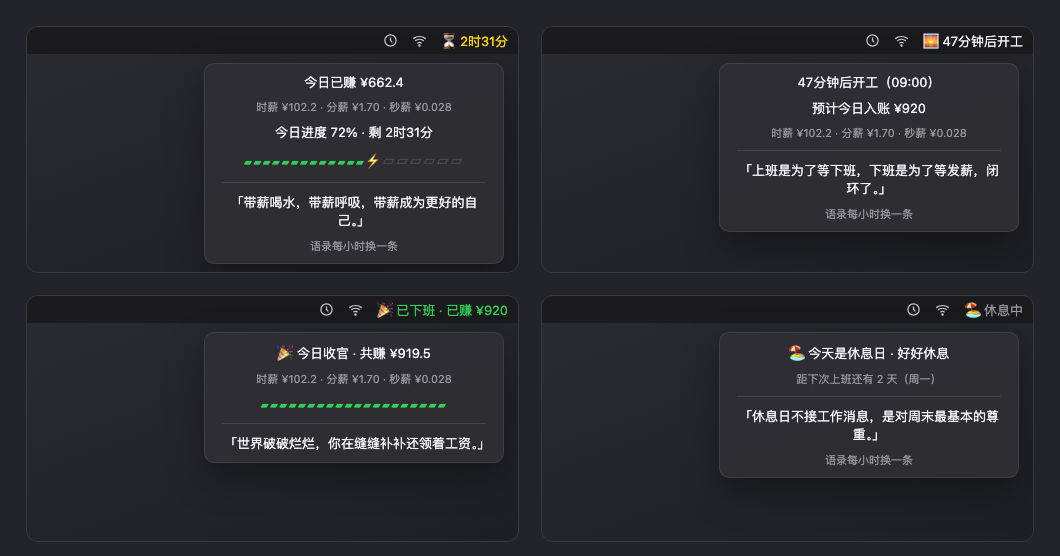
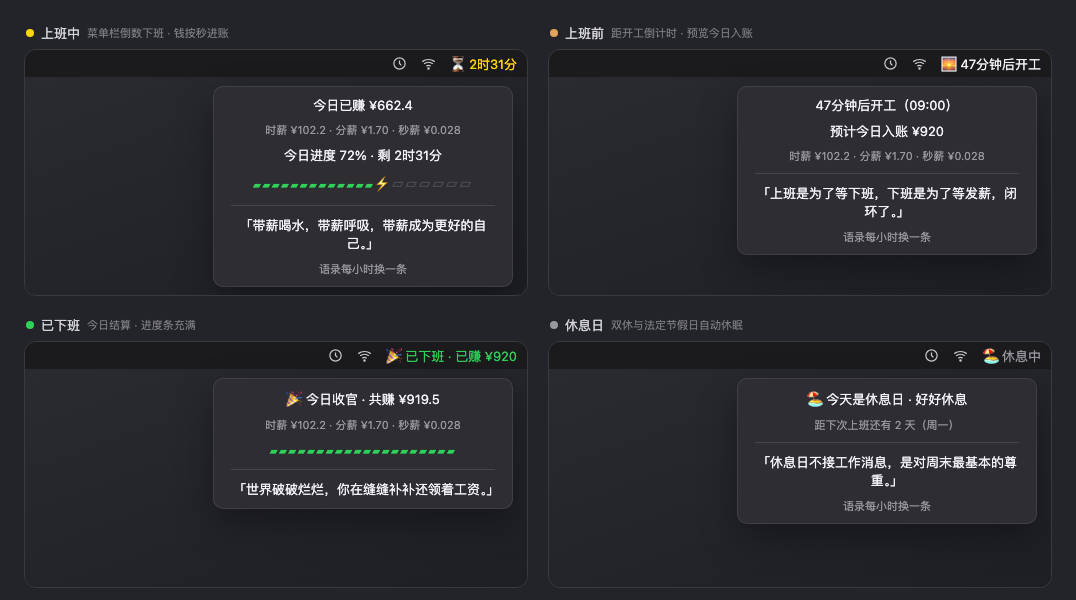
README 重写：产品描述+状态表；新增充电演变图与图注截图；install.sh 一键安装
- README：一句话定位、四状态说明表、三大特色分区、双安装路径、语料自定义/更新卸载
- screenshots/charging.png：一天 6 个时间点的充电进度条演变
- install.sh：SwiftBar 检查+引导配置，重跑即更新且保留配置（沙箱三路径验证，修 C locale 下 $CONFIG 紧贴全角括号的 unbound bug）

diff --git a/README.md b/README.md
@@ -1,55 +1,103 @@
 # niuma-charger · 牛马充电器
 
-[SwiftBar](https://swiftbar.app) 上班鼓励器 —— 菜单栏里的打工人充电面板。工作日自动上线，休息日自动下班。
+> SwiftBar 上班鼓励器 —— 把上班变成一场看得见的充电：菜单栏倒数下班，钱包按秒进账，语录按小时打气。工作日自动营业，休息日自动休眠。
 
-![screenshot](screenshots/demo.png)
+![四种工作状态](screenshots/demo.png)
 
-## 功能
+一段纯 Python 标准库写成的 macOS 菜单栏插件（[SwiftBar](https://swiftbar.app) 插件协议），无任何第三方依赖。装好之后，你的菜单栏会多出一个常驻小组件：
 
-- **四状态感知**：上班前倒计时 / 上班中充电 / 已下班结算 / 休息日休眠
-- **实时工资**：今日已赚按分钟累计，附时薪 / 分薪 / 秒薪（月薪 ÷ 21.75 ÷ 每日工时）
-- **充电进度条**：20 格——绿色已充、黄色 ⚡ 在充电前沿、灰色未充，下班时满格
-- **108 条语料**：打工人自嘲 / 温柔夸夸 / 轻鸡汤混合轮换，每小时换一条，菜单里可手动换
-- **中国节假日感知**：内置 2026 官方放假 + 调休补班表，双休与法定节假日自动切休息模式，调休补班日正常开工并标注
+| 状态 | 菜单栏显示 | 点开下拉可见 |
+|---|---|---|
+| 🌅 上班前 | 距开工倒计时 | 预计今日入账 · 时薪/分薪/秒薪 · 语录 |
+| ⏳ 上班中 | 距下班倒计时（黄色） | 今日已赚按分钟累计 · 赚钱速度 · 充电进度条 · 语录 |
+| 🎉 已下班 | 已下班 · 今日总入账（绿色） | 收官结算 · 满格进度条 · 下个开工日 · 语录 |
+| 🏖 休息日 | 休息中（灰色） | 假期名称 · 距下次上班天数 · 休息专属语录 |
+
+工资口径：时薪 = 月薪 ÷ 21.75 ÷ 每日工时。调休补班的周末照常营业，并在下拉里标注「今天调休补班」。
+
+## 特色：充电进度条
+
+下拉里的 20 格进度条模拟电池充电——**绿色是你已经赚到手的，黄色 ⚡ 停在充电前沿，表示钱正在流入口袋**。从开工到下班，一格一格充满：
+
+![充电进度条](screenshots/charging.png)
+
+下班那一刻整条变绿，充电完成 🎉。
+
+## 特色：108 条语料，每小时换一条
+
+打工人自嘲（「人生很短，周一很长」）、温柔夸夸（「没有迟到，没有崩溃，这很了不起」）、轻鸡汤（「秒薪在走，进度在涨，生活在稳稳向前」）三种风格混合轮换，上班/休息各用专属语料池。下拉里点「🎲 换一条语录」可随时手动换。
+
+## 特色：中国节假日感知
+
+内置国务院 2026 年官方放假 + 调休补班表：双休与法定节假日自动切休息模式（下拉显示假期名称），调休补班日正常开工。表按年登记，官方发布次年通知后追加一段数据即可（见[下文](#节假日表更新)）。
 
 ## 安装
 
+前置：macOS + [SwiftBar](https://swiftbar.app)（终端执行 `brew install --cask swiftbar`，或官网下载）。
+
+### 方式一：一键脚本（推荐）
+
 ```bash
-# 1. 安装 SwiftBar：https://swiftbar.app
-# 2. 放入插件并赋执行权限
+git clone https://github.com/zhangYIBO1993/niuma-charger.git
+cd niuma-charger
+./install.sh
+```
+
+脚本会把插件装进 SwiftBar、引导你写入月薪配置，一分钟内菜单栏出现 `⏳`。已装过再跑一遍 = 更新，配置不会被覆盖。
+
+### 方式二：手动三步
+
+```bash
 cp encourage.1m.py ~/Library/Application\ Support/SwiftBar/Plugins/
 chmod +x ~/Library/Application\ Support/SwiftBar/Plugins/encourage.1m.py
-# 3. 写入配置（月薪必填）
-mkdir -p ~/.config/swiftbar
-cp encourage.json.example ~/.config/swiftbar/encourage.json
-# 编辑填上你的月薪，SwiftBar 一分钟内自动加载
+mkdir -p ~/.config/swiftbar && cp encourage.json.example ~/.config/swiftbar/encourage.json
 ```
+
+然后编辑 `~/.config/swiftbar/encourage.json` 填上月薪。
 
 ## 配置 `~/.config/swiftbar/encourage.json`
 
 | 键 | 默认 | 说明 |
 |---|---|---|
-| `salary` | `0` | 月薪（元）；为 0 时隐藏工资相关行，其余功能照常 |
-| `start` | `09:00` | 上班时间，倒计时起点 |
-| `end` | `18:00` | 下班时间，倒计时终点 |
+| `salary` | `0` | 月薪（元）。为 0 时隐藏工资相关行，其余功能照常——不想暴露收入也能用 |
+| `start` | `09:00` | 上班时间（倒计时起点） |
+| `end` | `18:00` | 下班时间（倒计时终点） |
+
+改完保存即可，下一次刷新（1 分钟内）生效。
+
+## 自定义语料
+
+编辑 `encourage.1m.py` 里的 `QUOTES_WORK`（上班池）和 `QUOTES_REST`（休息池）两个元组，一行一条。唯一要求：不要包含竖线 `|`（SwiftBar 菜单协议保留字符）。改完跑一次校验：
+
+```bash
+python3 encourage.1m.py --selftest
+```
+
+## 更新与卸载
+
+```bash
+cd niuma-charger && git pull && ./install.sh   # 更新（配置保留）
+rm ~/Library/Application\ Support/SwiftBar/Plugins/encourage.1m.py   # 卸载
+rm ~/.config/swiftbar/encourage.json ~/.config/swiftbar/encourage.offset
+```
 
 ## 节假日表更新
 
-每年 10–11 月国务院办公厅发布次年放假安排后，在脚本 `TABLES` 里按年份追加节假日区间与调休补班日即可，无需改逻辑。表外年份自动退化为「周末休 / 平日上」，菜单下拉中会提示待更新。当前数据来源：国办发明电〔2025〕7 号《关于 2026 年部分节假日安排的通知》。
+每年 10–11 月国务院办公厅发布次年放假安排后，在 `encourage.1m.py` 的 `TABLES` 里按年份追加节假日区间与调休补班日，无需改任何逻辑。表外年份自动退化为「周末休 / 平日上」，菜单下拉中会提示待更新。当前数据来源：国办发明电〔2025〕7 号《关于 2026 年部分节假日安排的通知》。
 
-## 开发
+## 开发与自检
 
 ```bash
 python3 encourage.1m.py --selftest  # 离线自检：日历/工资/进度条/语料不变量
-python3 encourage.1m.py             # 手动渲染一次菜单输出
+python3 encourage.1m.py             # 手动渲染一次菜单输出（调试用）
 ```
 
-纯 Python 标准库实现，无第三方依赖，macOS 菜单栏原生渲染（SwiftBar 插件协议 + ANSI 着色）。
+自检覆盖：节假日与调休分类、四个状态的边界时刻、工资数学、进度条各百分比形态、语料池去重与长度约束。
 
 ## 致谢
 
-- 灵感来自「上班鼓励机」类产品（实时工资 + 下班倒计时 + 鼓励语录）
-- 语料风格参考了社媒上流传的打工人文案趋势（改写而非逐字搬运，来源链接见脚本注释）：牛马文案合集、「确诊为马」、小红书「小跨一步，大夸一场」、夸夸 / 反内耗、离线休息权等
+- 灵感来自「上班鼓励机」类产品（实时工资 + 下班倒计时 + 鼓励语录三件套）
+- 语料风格参考社媒流传的打工人文案趋势，均为改写而非逐字搬运，来源链接见 `encourage.1m.py` 语料区注释
 - 节假日数据来自国务院办公厅公开发布的通知
 
 ## License
